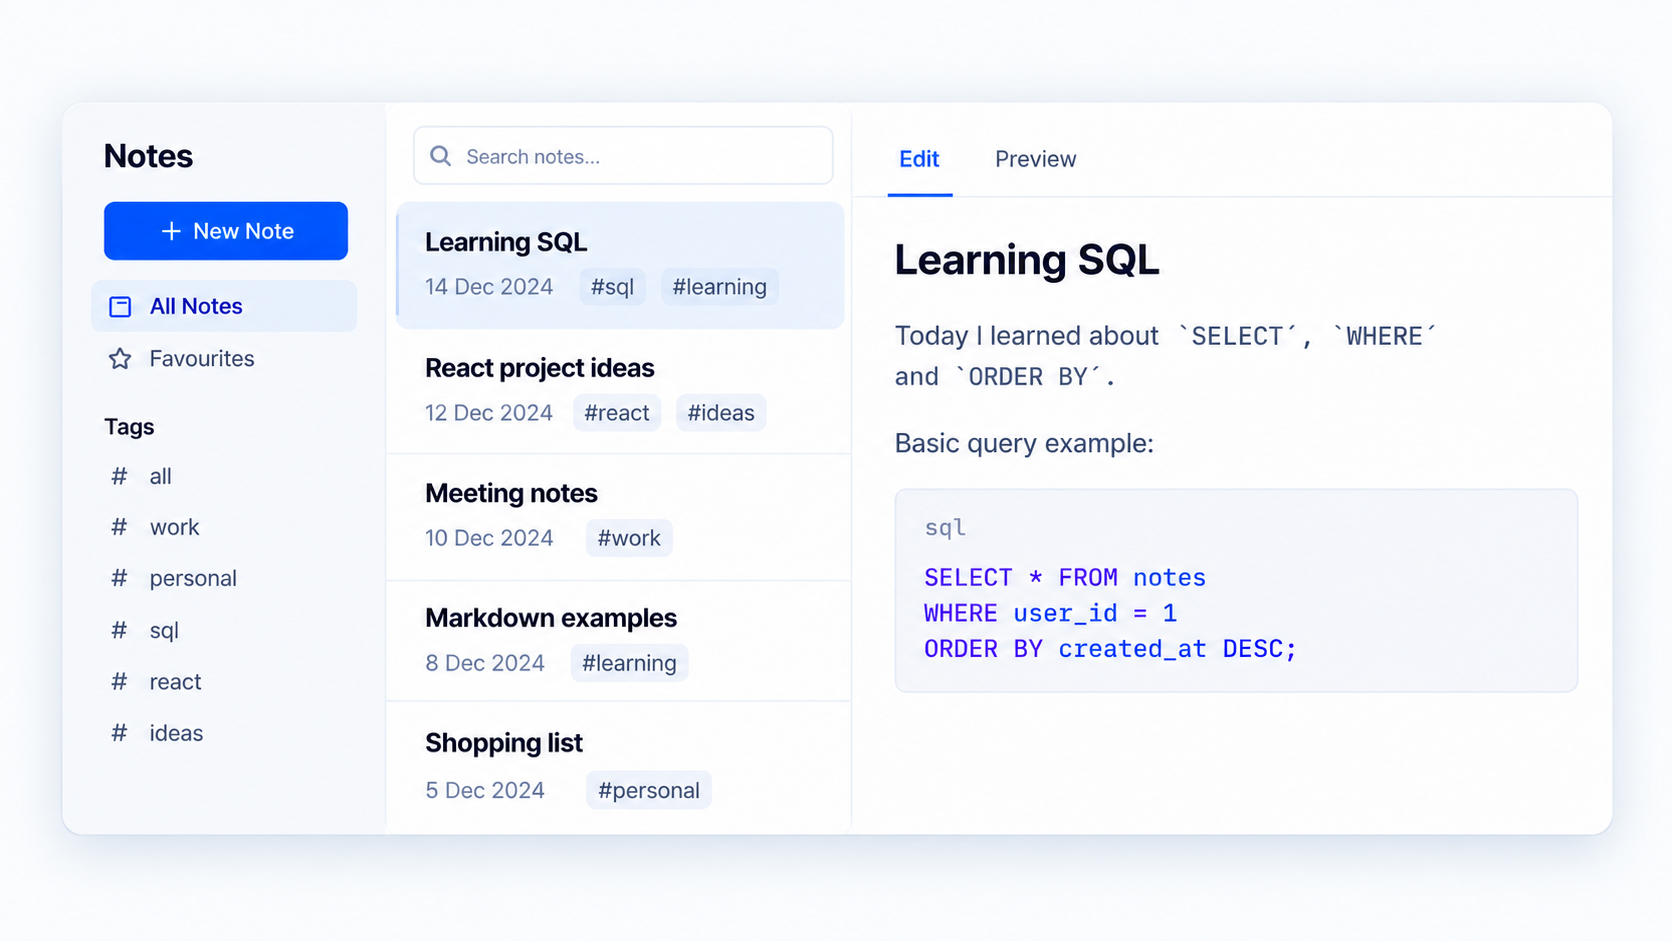
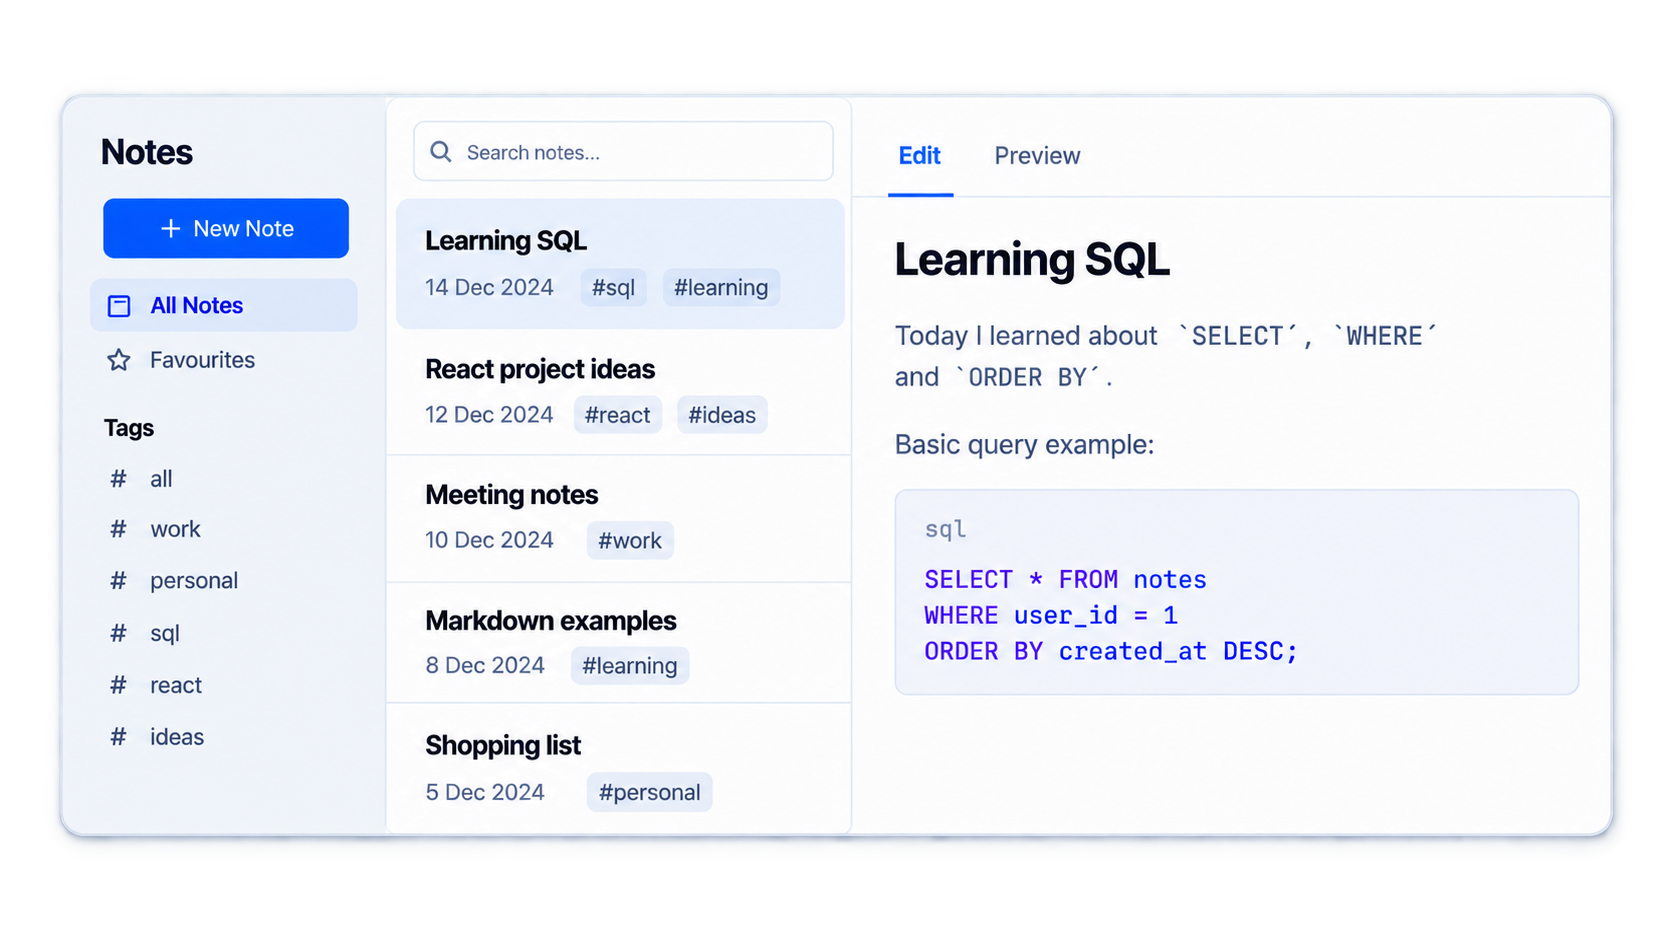
style: poliah landing page components

diff --git a/frontend/src/pages/Landing/LandingFeatures/LandingFeatures.jsx b/frontend/src/pages/Landing/LandingFeatures/LandingFeatures.jsx
@@ -1,47 +1,45 @@
 import "./LandingFeatures.css";
-import Container from "../../../components/Container/Container";
+
 import { Search, SquareText, Tags } from "lucide-react";
 
 const LandingFeatures = () => {
   return (
     <div className="landing-features">
-      <Container>
-        <div className="landing-features__group">
-          <div className="landing-features__icon">
-            <SquareText color="var(--color-primary)" />
-          </div>
-
-          <div className="landing-features__text">
-            <h2>Markdown</h2>
-
-            <p>Write notes using simple Markdown syntax.</p>
-          </div>
+      <div className="landing-features__group">
+        <div className="landing-features__icon">
+          <SquareText color="var(--color-primary)" />
         </div>
 
-        <div className="landing-features__group">
-          <div className="landing-features__icon">
-            <Tags color="var(--color-primary)" />
-          </div>
+        <div className="landing-features__text">
+          <h2>Markdown</h2>
 
-          <div className="landing-features__text">
-            <h2>Tags</h2>
+          <p>Write notes using simple Markdown syntax.</p>
+        </div>
+      </div>
 
-            <p>Organize your notes with tags.</p>
-          </div>
+      <div className="landing-features__group">
+        <div className="landing-features__icon">
+          <Tags color="var(--color-primary)" />
         </div>
 
-        <div className="landing-features__group">
-          <div className="landing-features__icon">
-            <Search color="var(--color-primary)" />
-          </div>
+        <div className="landing-features__text">
+          <h2>Tags</h2>
 
-          <div className="landing-features__text">
-            <h2>Search</h2>
-
-            <p>Find your notes quickly.</p>
-          </div>
+          <p>Organize your notes with tags.</p>
         </div>
-      </Container>
+      </div>
+
+      <div className="landing-features__group">
+        <div className="landing-features__icon">
+          <Search color="var(--color-primary)" />
+        </div>
+
+        <div className="landing-features__text">
+          <h2>Search</h2>
+
+          <p>Find your notes quickly.</p>
+        </div>
+      </div>
     </div>
   );
 };

diff --git a/frontend/src/pages/Landing/LandingHero/LandingHero.jsx b/frontend/src/pages/Landing/LandingHero/LandingHero.jsx
@@ -1,5 +1,4 @@
 import "./LandingHero.css";
-import Container from "../../../components/Container/Container";
 import Button from "../../../components/Button/Button";
 import { MoveRight } from "lucide-react";
 import HeroImg from "../../../assets/images/temp-landing-img.png";
@@ -7,33 +6,31 @@ import HeroImg from "../../../assets/images/temp-landing-img.png";
 const LandingHero = () => {
   return (
     <div className="landing-hero">
-      <Container>
-        <div className="landing-hero__text">
-          <h1>
-            Write. Organise. <span>Remember.</span>
-          </h1>
+      <div className="landing-hero__text">
+        <h1>
+          Write. Organise. <span>Remember.</span>
+        </h1>
 
-          <p className="lead">
-            A simple Markdown notes app for keeping everything in one place.
-          </p>
+        <p className="lead">
+          A simple Markdown notes app for keeping everything in one place.
+        </p>
 
-          <Button
-            className="button--primary button--large"
-            text={
-              <>
-                Start Writing <MoveRight />
-              </>
-            }
-            link="/register"
-          />
-        </div>
+        <Button
+          className="button--primary button--large"
+          text={
+            <>
+              Start Writing <MoveRight />
+            </>
+          }
+          link="/register"
+        />
+      </div>
 
-        <div className="circle circle--left"></div>
+      <div className="circle circle--left"></div>
 
-        <div className="circle circle--right"></div>
+      <div className="circle circle--right"></div>
 
-        <img src={HeroImg} alt="Notes app" />
-      </Container>
+      <img src={HeroImg} alt="Notes app" />
     </div>
   );
 };

diff --git a/frontend/src/pages/Landing/LandingNavbar/LandingNavbar.jsx b/frontend/src/pages/Landing/LandingNavbar/LandingNavbar.jsx
@@ -1,32 +1,29 @@
 import "./LandingNavbar.css";
 import Button from "../../../components/Button/Button";
 import { Link } from "react-router";
-import Container from "../../../components/Container/Container";
 
 const LandingNavbar = () => {
   return (
     <nav className="landing-navbar">
-      <Container>
-        <Link className="landing-navbar__logo">Notes</Link>
+      <Link className="landing-navbar__logo">Notes</Link>
 
-        <ul className="landing-navbar__list">
-          <li>
-            <Button
-              className="button--outline button--small"
-              text="Log in"
-              link="/login"
-            />
-          </li>
+      <ul className="landing-navbar__list">
+        <li>
+          <Button
+            className="button--outline button--small"
+            text="Log in"
+            link="/login"
+          />
+        </li>
 
-          <li>
-            <Button
-              className="button--primary button--small"
-              text="Sign Up"
-              link="/register"
-            />
-          </li>
-        </ul>
-      </Container>
+        <li>
+          <Button
+            className="button--primary button--small"
+            text="Sign Up"
+            link="/register"
+          />
+        </li>
+      </ul>
     </nav>
   );
 };

diff --git a/frontend/src/pages/Landing/LandingFeatures/LandingFeatures.css b/frontend/src/pages/Landing/LandingFeatures/LandingFeatures.css
@@ -1,7 +1,8 @@
-.landing-features .container {
+.landing-features {
   display: flex;
   flex-direction: column;
   gap: 2.4rem;
+  margin-bottom: 3rem;
 }
 
 .landing-features__group {
@@ -25,19 +26,19 @@
 }
 
 .landing-features p {
+  color: var(--color-text-muted);
   font-size: 1.4rem;
 }
 
 @media (min-width: 768px) {
-  .landing-features .container {
-    display: flex;
+  .landing-features {
     flex-direction: row;
     justify-content: space-around;
     gap: 0;
   }
 
   .landing-features__group {
-    flex-basis: 20%;
+    flex-basis: 30%;
     flex-direction: column;
     justify-content: center;
     text-align: center;
@@ -46,5 +47,17 @@
 
   .landing-features__icon {
     margin: 0 auto;
+  }
+}
+
+@media (min-width: 1040px) {
+  .landing-features__icon {
+    width: 8rem;
+    height: 8rem;
+  }
+
+  .landing-features__icon svg {
+    width: 4rem;
+    height: 4rem;
   }
 }

diff --git a/frontend/src/pages/Landing/LandingNavbar/LandingNavbar.css b/frontend/src/pages/Landing/LandingNavbar/LandingNavbar.css
@@ -1,11 +1,8 @@
 .landing-navbar {
-  padding: 2.4rem 0;
-}
-
-.landing-navbar .container {
   display: flex;
   justify-content: space-between;
   align-items: center;
+  padding: 2.4rem 0 0 0;
 }
 
 .landing-navbar__logo {
@@ -13,10 +10,16 @@
   font-weight: 700;
 }
 
+.landing-navbar__logo:focus {
+  outline: 1px solid var(--color-primary);
+  outline-offset: 4px;
+  border-radius: var(--radius);
+}
+
 .landing-navbar__list {
   display: flex;
   align-items: center;
-  gap: 2.4rem;
+  gap: 1.6rem;
 }
 
 @media (min-width: 768px) {
@@ -26,5 +29,9 @@
     display: flex;
     justify-content: space-between;
     align-items: center;
+  }
+
+  .landing-navbar__list {
+    gap: 2.4rem;
   }
 }

diff --git a/frontend/src/index.css b/frontend/src/index.css
@@ -68,6 +68,11 @@ body {
   line-height: 1.6;
 }
 
+.app {
+  position: relative;
+  overflow-x: hidden;
+}
+
 /* General tags */
 
 img {
@@ -100,7 +105,7 @@ h3 {
 h1 {
   font-size: 3.2rem;
   width: 50%;
-  margin-bottom: 1.6rem;
+  margin-bottom: 1.2rem;
 }
 
 h2 {
@@ -112,9 +117,9 @@ h1 span {
 }
 
 .lead {
-  color: var(--color-text-secondary);
+  color: var(--color-text-muted);
   font-size: 1.6rem;
-  margin-bottom: 2.4rem;
+  margin-bottom: 1.2rem;
 }
 
 @media (min-width: 768px) {
@@ -131,5 +136,6 @@ h1 span {
 @media (min-width: 1040px) {
   h2 {
     font-size: 2.4rem;
+    margin-bottom: 0.8rem;
   }
 }

diff --git a/frontend/src/pages/Landing/LandingHero/LandingHero.css b/frontend/src/pages/Landing/LandingHero/LandingHero.css
@@ -1,12 +1,12 @@
 .landing-hero {
-  position: relative;
-  overflow: hidden;
-  margin-top: 5rem;
+  margin-top: 3rem;
+  margin-bottom: 3rem;
+  overflow-x: hidden;
 }
 
 .landing-hero img {
   border-radius: var(--radius);
-  margin-top: 2.4rem;
+  margin-top: 1.6rem;
 }
 
 .circle {
@@ -20,12 +20,12 @@
 }
 
 .circle--left {
-  top: 15rem;
+  top: 20rem;
   left: -10rem;
 }
 
 .circle--right {
-  top: 0;
+  top: 60rem;
   right: -10rem;
 }
 

diff --git a/frontend/src/pages/Landing/LandingPage.jsx b/frontend/src/pages/Landing/LandingPage.jsx
@@ -1,14 +1,15 @@
+import Container from "../../components/Container/Container";
 import LandingFeatures from "./LandingFeatures/LandingFeatures";
 import LandingHero from "./LandingHero/LandingHero";
 import LandingNavbar from "./LandingNavbar/LandingNavbar";
 
 const LandingPage = () => {
   return (
-    <>
+    <Container>
       <LandingNavbar />
       <LandingHero />
       <LandingFeatures />
-    </>
+    </Container>
   );
 };
 

diff --git a/frontend/src/App.jsx b/frontend/src/App.jsx
@@ -3,9 +3,11 @@ import LandingPage from "./pages/Landing/LandingPage";
 
 const app = () => {
   return (
-    <Routes>
-      <Route path="/" element={<LandingPage />} />
-    </Routes>
+    <div className="app">
+      <Routes>
+        <Route path="/" element={<LandingPage />} />
+      </Routes>
+    </div>
   );
 };
 

diff --git a/frontend/src/components/Button/Button.css b/frontend/src/components/Button/Button.css
@@ -8,6 +8,12 @@
   gap: 1.2rem;
 }
 
+.button:focus {
+  outline: 1px solid var(--color-primary);
+  outline-offset: 4px;
+  border-radius: var(--radius);
+}
+
 .button--small {
   padding: 0.8rem 1.4rem;
 }
